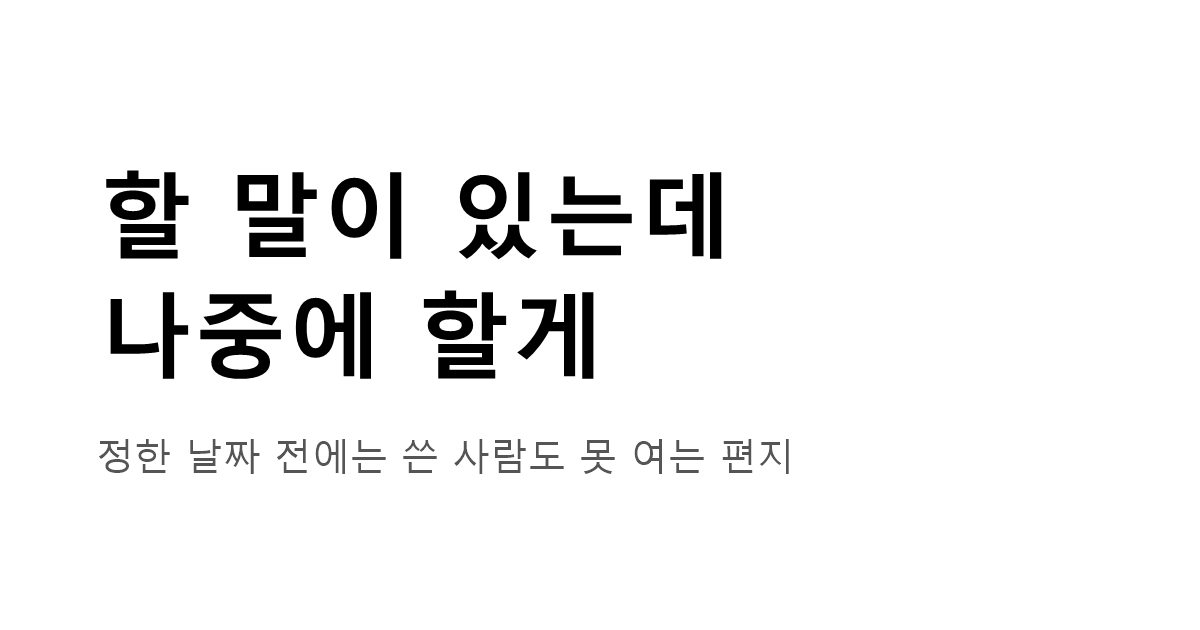
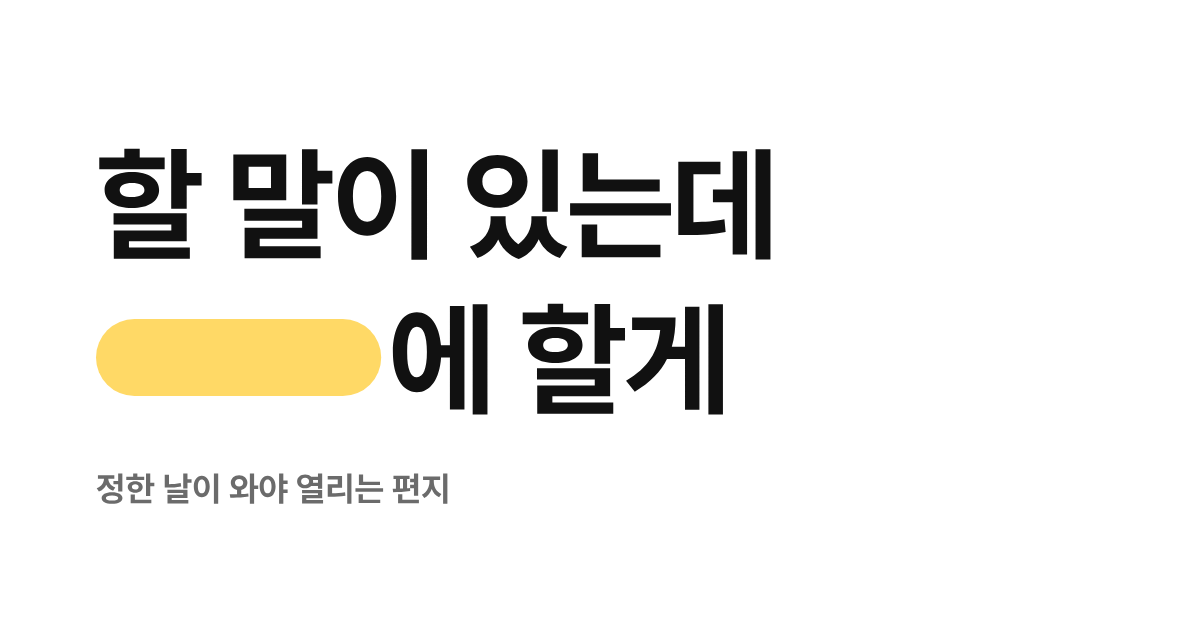
feat: 로고 파일 적용
- 파비콘(svg 우선, 32px png 대체)과 apple-touch-icon 연결
- og.png를 새 로고 이미지로 교체 (1200×630 유지)
- 쓰기 화면 맨 위 서비스명을 wordmark.svg로 교체
- icon-512.png는 매니페스트가 없어 public/에만 둠
- og.svg 원본은 design/에 보관

Changed region(s): [[0.0617, 0.4524, 0.6167, 0.6635], [0.0617, 0.2413, 0.6475, 0.4222], [0.0617, 0.6937, 0.6475, 0.8143]]

diff --git a/index.html b/index.html
@@ -18,6 +18,10 @@
     <meta property="og:image:width" content="1200" />
     <meta property="og:image:height" content="630" />
     <meta name="twitter:card" content="summary_large_image" />
+    <!-- SVG를 못 읽는 브라우저는 PNG로 내려간다. -->
+    <link rel="icon" href="/favicon.svg" type="image/svg+xml" />
+    <link rel="icon" href="/favicon-32.png" type="image/png" sizes="32x32" />
+    <link rel="apple-touch-icon" href="/apple-touch-icon.png" sizes="180x180" />
     <link rel="preconnect" href="https://fonts.googleapis.com" />
     <link rel="preconnect" href="https://fonts.gstatic.com" crossorigin />
   </head>

diff --git a/src/screens/Write.tsx b/src/screens/Write.tsx
@@ -100,7 +100,7 @@ export function Write({ prefill, onCreated }: { prefill: Prefill | null; onCreat
     <>
       <form className={s.page} onSubmit={submit} noValidate>
         <header className={s.head}>
-          <span className={s.service}>할 말이 있는데 나중에 할게</span>
+          <img className={s.wordmark} src="/wordmark.svg" alt="할 말이 있는데 나중에 할게" width={94} height={40} />
           <h1 className={s.title}>
             정한 날이 와야
             <br />

diff --git a/src/screens/write.module.css b/src/screens/write.module.css
@@ -40,10 +40,12 @@
   gap: 10px;
 }
 
-.service {
-  font-size: 14px;
-  font-weight: 600;
-  color: #6b6b6b;
+/* .head가 세로 flex라 그냥 두면 가로로 늘어난다. 원본 비율(553:235)대로 높이만 맞춘다. */
+.wordmark {
+  display: block;
+  align-self: flex-start;
+  height: 40px;
+  width: auto;
 }
 
 .title {
